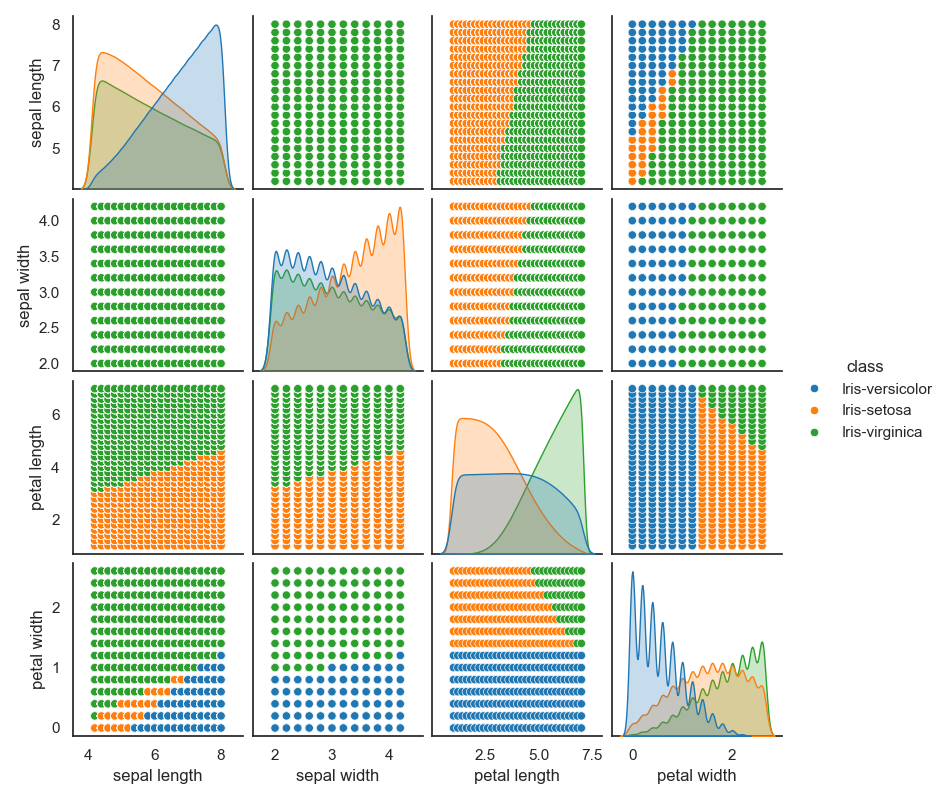
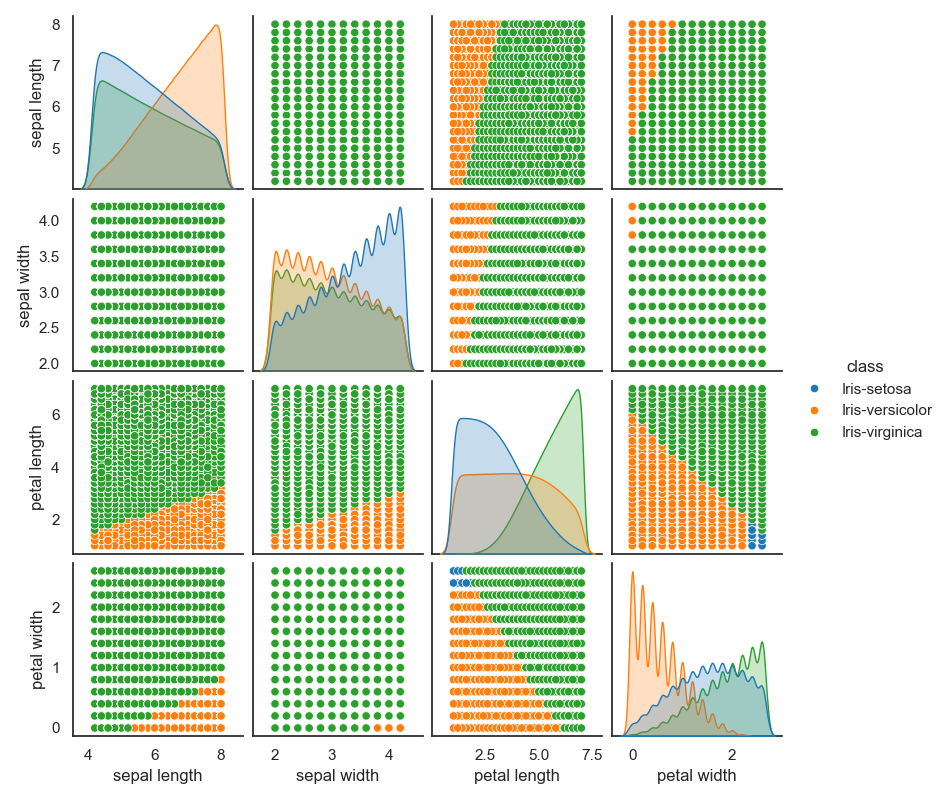
finalizing, comments, etc...

diff --git a/knn.py b/knn.py
@@ -4,7 +4,6 @@ import numpy as np
 import seaborn as sns
 import matplotlib.pyplot as plt
 from ucimlrepo import fetch_ucirepo
-from heapq import nsmallest
 from tqdm import tqdm
 
 warnings.filterwarnings("ignore")
@@ -12,13 +11,21 @@ sns.set(style="white", color_codes=True)
 
 
 def count_occ(neighbors, data):
+    """
+    count occurrences of each type of flower
+    :param neighbors: k-length list of nearest neighbors indices in data
+    :param data: original dataframe of plants
+    :return: classification of test plant
+    """
     setosa = 0
     versicolor = 0
     virginica = 0
 
+    # neighbor is the index in the dataframe
     for neighbor in neighbors:
         cur_neighbor = data.at[neighbor, 'class']
 
+        # check and increment
         if cur_neighbor == 'Iris-setosa':
             setosa += 1
         elif cur_neighbor == 'Iris-versicolor':
@@ -26,44 +33,56 @@ def count_occ(neighbors, data):
         else:
             virginica += 1
 
+    # get maximum and return matching class to
+    # classify test example
     maxval = max(setosa, versicolor, virginica)
     if maxval == setosa:
         return 'Iris-setosa'
     elif maxval == versicolor:
         return 'Iris-versicolor'
-    else:
-        return 'Iris-virginica'
+    return 'Iris-virginica'
 
 
 def euclid(x, y):
-    squared_sum = 0  # sum container
+    """
+    compute l2 (Euclidean) distance for all
+    parameters of test plant x and data plant y
+    :param x: test plant [sepal length, sepal width, petal length, petal width]
+    :param y: data plant [sepal length, sepal width, petal length, petal width]
+    :return: Euclidean distance
+    """
+    squared_sum = 0
+
     for index, val in enumerate(x):
-        squared_sum += (val - y[index]) ** 2  # sum over all
+        squared_sum += (val - y[index]) ** 2  # sum over all parameters
 
     return np.sqrt(squared_sum)
 
 
 def knn(data, test, k):
+    """
+    compute the k-nearest neighbors for each member of test with the members of data
+    :param data: original dataframe [sepal length, sepal width, petal length, petal width, classification (target)]
+    :param test: dataframe of test points [sepal length, sepal width, petal length, petal width, classification (target)]
+    :param k: number of nearest neighbors (would work better with primes, due to three classification types)
+    :return: altered dataframe with classifications filled
+    """
+    # deep copy
     test_copy = test.copy()
 
+    # for each test plant
     for nn_index, test_row in tqdm(test_copy.iterrows(), total=len(test_copy)):
+        # deep copy this too so as not to affect outer scope
+        # (python is picky-choosy about when it is pass-by-ref or pass-by-val)
         data_copy = data.copy()
         distance = {}
 
+        # get Euclidean distance w.r.t each existing data member
         for dist_index, data_row in data_copy.iterrows():
             distance[dist_index] = euclid(data_row.drop('class'), test_row.drop('class'))
 
-        test_copy.at[nn_index, 'class'] = count_occ(
-                                            list(
-                                                dict(
-                                                    sorted(
-                                                        distance.items(),
-                                                        key=lambda neighbor: neighbor[1]
-                                                    )[:9]
-                                                ).keys()
-                                            ),
-                                            data
-        )
+        # python moment
+        test_copy.at[nn_index, 'class'] = count_occ(list(dict(sorted(distance.items(), key=lambda neighbor: neighbor[1])[:k]).keys()), data)
     return test_copy
 
 
@@ -71,7 +90,12 @@ def knn(data, test, k):
 iris = fetch_ucirepo(id=53)
 original_data = iris.data.original
 
-test_dict = {
+# create some fourth-dimensional volume that
+# has all the important ranges for the flowers
+# in every direction, increasing by 0.2 each
+# point. aptly name it a 'hyperpetal' because
+# you're a nerd, and you think you're funny.
+info_dict = {
     'sepal length': [],
     'sepal width': [],
     'petal length': [],
@@ -79,22 +103,24 @@ test_dict = {
     'class': []
 }
 
-# sl [4.2 8.0]
-# sw [2.0 4.4]
-# pl [1.0 7.0]
-# pw [0.0 2.6]
+# sepal len: [4.2 8.0]
+# sepal wid: [2.0 4.4]
+# petal len: [1.0 7.0]
+# petal wid: [0.0 2.6]
 for x in range(21, 41):
     for y in range(10, 22):
         for z in range(5, 36):
             for a in range(14):
-                test_dict['sepal length'].append(x / 5.0)
-                test_dict['sepal width'].append(y / 5.0)
-                test_dict['petal length'].append(z / 5.0)
-                test_dict['petal width'].append(a / 5.0)
-                test_dict['class'].append(0)
+                info_dict['sepal length'].append(x / 5.0)
+                info_dict['sepal width'].append(y / 5.0)
+                info_dict['petal length'].append(z / 5.0)
+                info_dict['petal width'].append(a / 5.0)
+                info_dict['class'].append(0)
 
-test_examples = pd.DataFrame(test_dict)
-test_examples = knn(original_data, test_examples, 9)
+# perform k-nearest neighbors
+hyperpetal = pd.DataFrame(info_dict)
+test_examples = knn(original_data, hyperpetal, 9)
 
+# plot
 sns.pairplot(test_examples, hue='class', height=2, palette=sns.color_palette("tab10"))
 plt.show()

diff --git a/perceptron.py b/perceptron.py
@@ -1,39 +1,58 @@
 import pandas as pd
-from ucimlrepo import fetch_ucirepo
-import warnings
 import numpy as np
 import seaborn as sns
 import matplotlib.pyplot as plt
+from ucimlrepo import fetch_ucirepo
+from tqdm import tqdm
 
-warnings.filterwarnings("ignore")
 sns.set(style="white", color_codes=True)
 
 
 def col_perceptron(data, weights, eta, maxiter):
-    for __ in range(maxiter):
+    """
+    collate all the values for some given perceptron
+    :param data: the original dataframe [sepal length, sepal width, petal length, petal width, classification (target)]
+    :param weights: list of initial weights [bias, sl_param, sw_param, pl_param, pw_param]
+    :param eta: same eta from gradient descent, just a scaling parameter
+    :param maxiter: maximal number of iterations this function should run, regardless of convergence
+    :return: the updated list of weights for the perceptron, again, regardless of convergence
+    """
+    # ensure we cap the convergence
+    for __ in tqdm(range(maxiter), total=maxiter):
+        # if exit flag is true at the end of a sweep through
+        # all the rows, then there were no updates, and thus
+        # the perceptron converged to some linear function
+        # that linearly separates the data
         exit_flag = True
 
         for _, row in data.iterrows():
+            # substitute values to check for update
             o = 1 * weights[0]
             for index, x in enumerate(row.drop('class').values):
                 o += (weights[index + 1] * x)
 
+            # if 0 then negative, otherwise just return sign
             if o == 0:
                 o = -1
             else:
                 o = o / np.abs(o)  # if this o is trivially small it could be a problem
 
+            # if this is 0 then there is no need to update,
+            # as it is classifying correctly
             update = int(row['class']) - o
+
+            # otherwise update and flag false
             if update != 0:
                 exit_flag = False
                 weights[0] += eta * update
                 for index, x in enumerate(row.drop('class').values):
                     weights[index + 1] += eta * update * x
 
+        # convergence
         if exit_flag:
             return weights
 
-    print("did not converge")
+    # non-convergence
     return weights
 
 
@@ -58,25 +77,46 @@ p0_weights = col_perceptron(p0_data, p0_weights, eta=0.1, maxiter=5000)
 p1_weights = col_perceptron(p1_data, p1_weights, eta=0.1, maxiter=5000)
 p2_weights = col_perceptron(p2_data, p2_weights, eta=0.1, maxiter=5000)
 
-testexamples = pd.DataFrame(
-    {
-        'sepal length': [5.4, 6.0, 6.8, 5.2, 5.9],
-        'sepal width': [3.3, 2.7, 3.4, 4.0, 2.9],
-        'petal length': [1.6, 4.2, 6.0, 5.0, 4.5],
-        'petal width': [0.4, 1.2, 2.4, 0.3, 1.4],
-        'class': ['Iris-test', 'Iris-test', 'Iris-test', 'Iris-test', 'Iris-test']
-    }
-)
+# create some fourth-dimensional volume that
+# has all the important ranges for the flowers
+# in every direction, increasing by 0.2 each
+# point. aptly name it a 'hyperpetal' because
+# you're a nerd, and you think you're funny.
+info_dict = {
+    'sepal length': [],
+    'sepal width': [],
+    'petal length': [],
+    'petal width': [],
+    'class': []
+}
 
-plot_test = pd.concat([original, testexamples])
-sns.pairplot(plot_test, hue='class', height=2, palette=sns.color_palette("tab10"))
-plt.show()
+# sepal len: [4.2 8.0]
+# sepal wid: [2.0 4.4]
+# petal len: [1.0 7.0]
+# petal wid: [0.0 2.6]
+for x in range(21, 41):
+    for y in range(10, 22):
+        for z in range(5, 36):
+            for a in range(14):
+                info_dict['sepal length'].append(x / 5.0)
+                info_dict['sepal width'].append(y / 5.0)
+                info_dict['petal length'].append(z / 5.0)
+                info_dict['petal width'].append(a / 5.0)
+                info_dict['class'].append(0)
 
-for dfindex, row in testexamples.iterrows():
+hyperpetal = pd.DataFrame(info_dict)
+
+# iterate over the entire 4D object and let the perceptron
+# decide what flower each point should be
+# (this is so computationally inefficient, I apologize)
+for dfindex, row in hyperpetal.iterrows():
+    # bias
     p0 = p0_weights[0]
     p1 = p1_weights[0]
     p2 = p2_weights[0]
 
+    # account for bias parameter and multiply each row value
+    # with its corresponding perceptron parameter weight
     for index, x in enumerate(row.drop('class').values):
         p0 += p0_weights[index + 1] * x
         p1 += p1_weights[index + 1] * x
@@ -84,13 +124,17 @@ for dfindex, row in testexamples.iterrows():
 
     maxval = max(p0, p1, p2)
 
+    # classify
     if p0 == maxval:
-        testexamples.at[dfindex, 'class'] = 'Iris-setosa'
+        hyperpetal.at[dfindex, 'class'] = 'Iris-setosa'
     elif p1 == maxval:
-        testexamples.at[dfindex, 'class'] = 'Iris-versicolor'
+        hyperpetal.at[dfindex, 'class'] = 'Iris-versicolor'
     else:
-        testexamples.at[dfindex, 'class'] = 'Iris-virginica'
+        hyperpetal.at[dfindex, 'class'] = 'Iris-virginica'
 
-plot_test = pd.concat([original, testexamples])
-sns.pairplot(plot_test, hue='class', height=2, palette=sns.color_palette("tab10"))
+# legend is out of order otherwise
+hyperpetal = hyperpetal.sort_values('class')
+
+# plot
+sns.pairplot(hyperpetal, hue='class', height=2, palette=sns.color_palette("tab10"))
 plt.show()

diff --git a/simpleplot.py b/simpleplot.py
@@ -8,5 +8,6 @@ sns.set(style="white", color_codes=True)
 iris = fetch_ucirepo(id=53)
 originaldf = iris.data.original
 
+# plot data
 sns.pairplot(originaldf, hue='class', height=2, palette=sns.color_palette("tab10"))
 plt.show()
